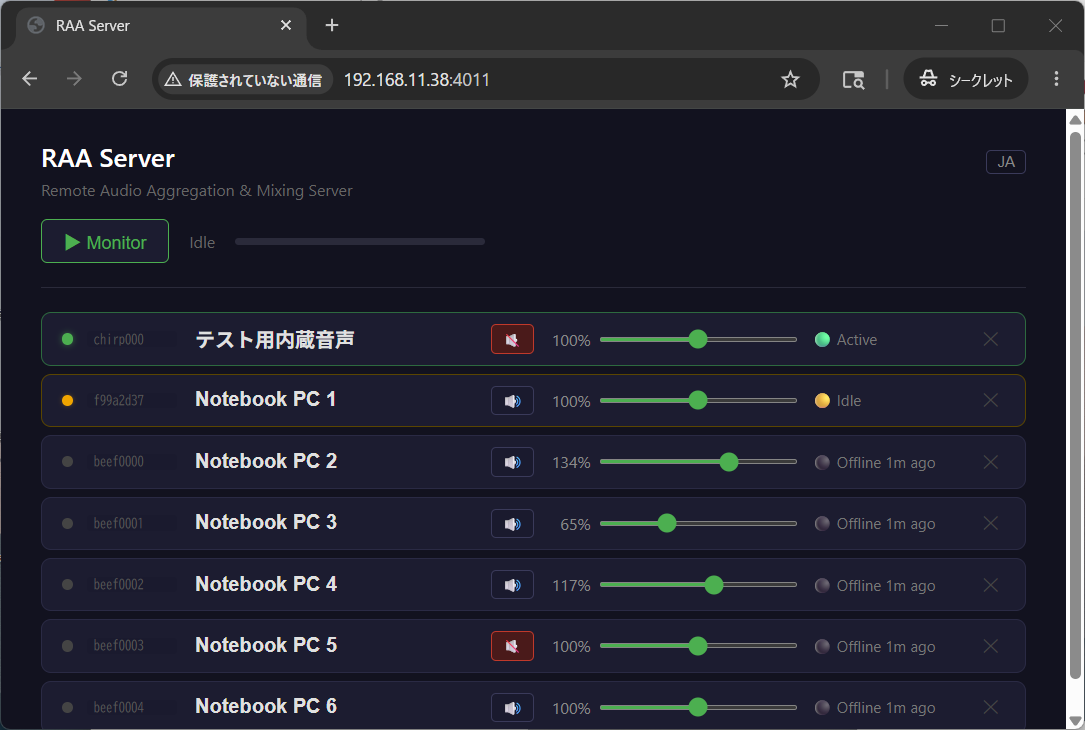
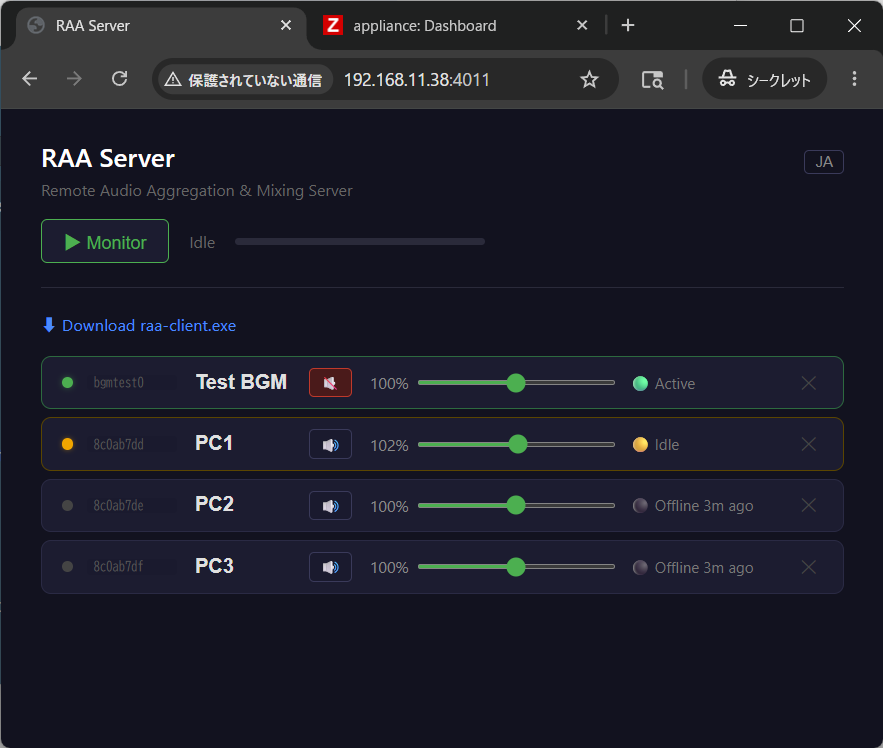
chore: change default server IP to 10.0.0.1 and update docs
Replace development environment IP 192.168.11.38 with class-A private
address 10.0.0.1 as the default across client, Zabbix module, and docs.
Also include accumulated README updates and Zabbix screenshot.

diff --git a/client/src/raa-client.cpp b/client/src/raa-client.cpp
@@ -179,7 +179,7 @@ struct Config {
 };
 
 static Config g_cfg = {
-    L"192.168.11.38", 4010,
+    L"10.0.0.1", 4010,
     64,
     200, 100,
     L"", L"", 5000,
@@ -248,7 +248,7 @@ static BOOL load_config(void) {
     if (GetFileAttributesW(g_ini_path) == INVALID_FILE_ATTRIBUTES)
         return FALSE;
 
-    GetPrivateProfileStringW(L"Connection", L"server_ip", L"192.168.11.38",
+    GetPrivateProfileStringW(L"Connection", L"server_ip", L"10.0.0.1",
                              g_cfg.server_ip, 64, g_ini_path);
     g_cfg.server_port = (int)GetPrivateProfileIntW(L"Connection", L"server_port", 4010, g_ini_path);
 

diff --git a/module/includes/WidgetForm.php b/module/includes/WidgetForm.php
@@ -15,7 +15,7 @@ class WidgetForm extends CWidgetForm {
 		return $this
 			->addField(
 				(new CWidgetFieldTextBox('server_host', _('RAA Server Host')))
-					->setDefault('192.168.11.38')
+					->setDefault('10.0.0.1')
 					->setFlags(CWidgetFieldTextBox::FLAG_NOT_EMPTY)
 			)
 			->addField(

diff --git a/README.md b/README.md
@@ -8,6 +8,7 @@ A low-latency audio aggregation system that captures system audio from multiple 
   <tr>
     <td align="center"><b>Win32 Client</b><br><img src="docs/screenshot-client.png" alt="Win32 Client" width="380"></td>
     <td align="center"><b>Server WebUI</b><br><img src="docs/screenshot-webui-en.png" alt="Server WebUI" width="380"></td>
+    <td align="center"><b>Zabbix Module</b><br><img src="docs/screenshot-zabbix.png" alt="Zabbix Module" width="380"></td>
   </tr>
 </table>
 
@@ -15,13 +16,14 @@ A low-latency audio aggregation system that captures system audio from multiple 
 
 ```
 [Windows PC-A] ──UDP:4010──┐
-[Windows PC-B] ──UDP:4010──┤──→ [Linux Server] ──WebSocket:4011──→ [Browser]
-[Windows PC-C] ──UDP:4010──┘         │
-                                  WebUI :4011
+[Windows PC-B] ──UDP:4010──┤──→ [Linux Server] ──WebSocket:4011──→ [Browser / Zabbix]
+[Windows PC-C] ──UDP:4010──┘          │
+                                   WebUI :4011
 ```
 
-- **Clients → Server**: UDP one-way (fire & forget). No inbound connections required on the client side.
-- **Browser → Server**: WebSocket outbound connection. Works through NAT with just two port forwards (UDP 4010, TCP 4011).
+- **Clients → Server**: RTP (Opus) over UDP, fire & forget. Destination port: UDP 4010.
+- **Browser → Server**: HTTP + WebSocket (outbound only, works through NAT). Destination port: TCP 4011.
+- **Zabbix → Server**: WebSocket. Destination port: TCP 4011.
 - **Audio format**: Opus 48 kHz mono, 20 ms frames, 64 kbps, DTX enabled
 
 ## Components
@@ -29,7 +31,7 @@ A low-latency audio aggregation system that captures system audio from multiple 
 | Component | Status | Description |
 |-----------|--------|-------------|
 | [Win32 Client](client/) | ✅ Complete | System tray app, WASAPI process loopback capture, RTP/UDP sender |
-| [Node.js Server](server/) | ✅ Complete | UDP receiver, mixer worker thread, WebSocket broadcaster, REST management API |
+| [Node.js Server](server/) | ✅ Complete | UDP receiver, mixer worker thread, WebSocket audio stream, REST management API |
 | [Zabbix Module](module/) | ✅ Complete | Zabbix dashboard widget with WebSocket audio player and Mixer Settings link |
 
 ## Download
@@ -48,9 +50,9 @@ Pre-built binaries are published to [GitHub Releases](https://github.com/daig0ri
 ### Audio Pipeline (20 ms cycle)
 
 1. **Win32 client** captures system audio via WASAPI Process Loopback (master-volume-independent), encodes with libopus, and sends RTP packets over UDP.
-2. **Server UDP receiver** parses RTP headers, extracts the SSRC as client ID, decodes Opus → PCM, and enqueues frames into per-client RTP-timestamp-indexed jitter buffers.
-3. **Mixer worker thread** runs a precise 20 ms timer, pulls one frame per client from its jitter buffer (with PLC for missing frames), mixes PCM with per-client volume scaling, re-encodes as Opus, and sends to the main thread.
-4. **Main thread** broadcasts the encoded frame to all WebSocket listeners.
+2. **Server UDP receiver** parses RTP headers, extracts SSRC, RTP timestamp, and marker bit, detects stream gaps (marker bit or >300 ms silence), and forwards the raw Opus payload to the mixer worker thread.
+3. **Mixer worker thread** decodes each incoming Opus frame to PCM and enqueues it into the per-client RTP-timestamp-indexed jitter buffer. A precise 20 ms timer then pulls one frame per client (with PLC for missing frames), applies per-client volume scaling, mixes the PCM streams, re-encodes as Opus, and sends the result to the main thread.
+4. **Main thread** sends the encoded frame to each connected WebSocket listener.
 5. **Browser** decodes Opus via WebAssembly and schedules playback through the Web Audio API.
 
 ### Jitter Buffer
@@ -112,7 +114,7 @@ The server emits timing statistics every 5 seconds at `info` level:
 {"msg":"event loop delay","mean_ms":"10.6","p99_ms":"12.5","max_ms":"16.8"}
 ```
 
-`avg_active` is the mean number of clients actually mixed per cycle. `event loop delay` reflects main-thread responsiveness (UDP receive, WebSocket broadcast, HTTP) — elevated here due to load test running on the same VM.
+`avg_active` is the mean number of clients actually mixed per cycle. `event loop delay` reflects main-thread responsiveness (UDP receive, WebSocket send, HTTP) — elevated here due to load test running on the same VM.
 
 To reproduce the load test:
 
@@ -271,7 +273,7 @@ The `raa_monitor` Zabbix widget lets you monitor and listen to the RAA audio str
 
    | Field | Default | Description |
    |-------|---------|-------------|
-   | RAA Server Host | `192.168.11.38` | IP or hostname of the RAA server (as seen from the browser) |
+   | RAA Server Host | `10.0.0.1` | IP or hostname of the RAA server (as seen from the browser) |
    | WebSocket Port | `4011` | HTTP/WS port of the RAA server |
    | Buffer (ms) | `200` | Jitter buffer size |
 
@@ -294,6 +296,7 @@ Open `http://<server>:4011/` in a browser.
 - Lists all active and known clients with friendly name, SSRC, and status
 - Per-client volume slider (0–200%), mute toggle, and name editor
 - Audio player for the mixed stream (click the play button)
+- Language toggle (EN/JA) in the top-right corner; browser language is auto-detected on load
 
 ## Built-in Test Stream
 
